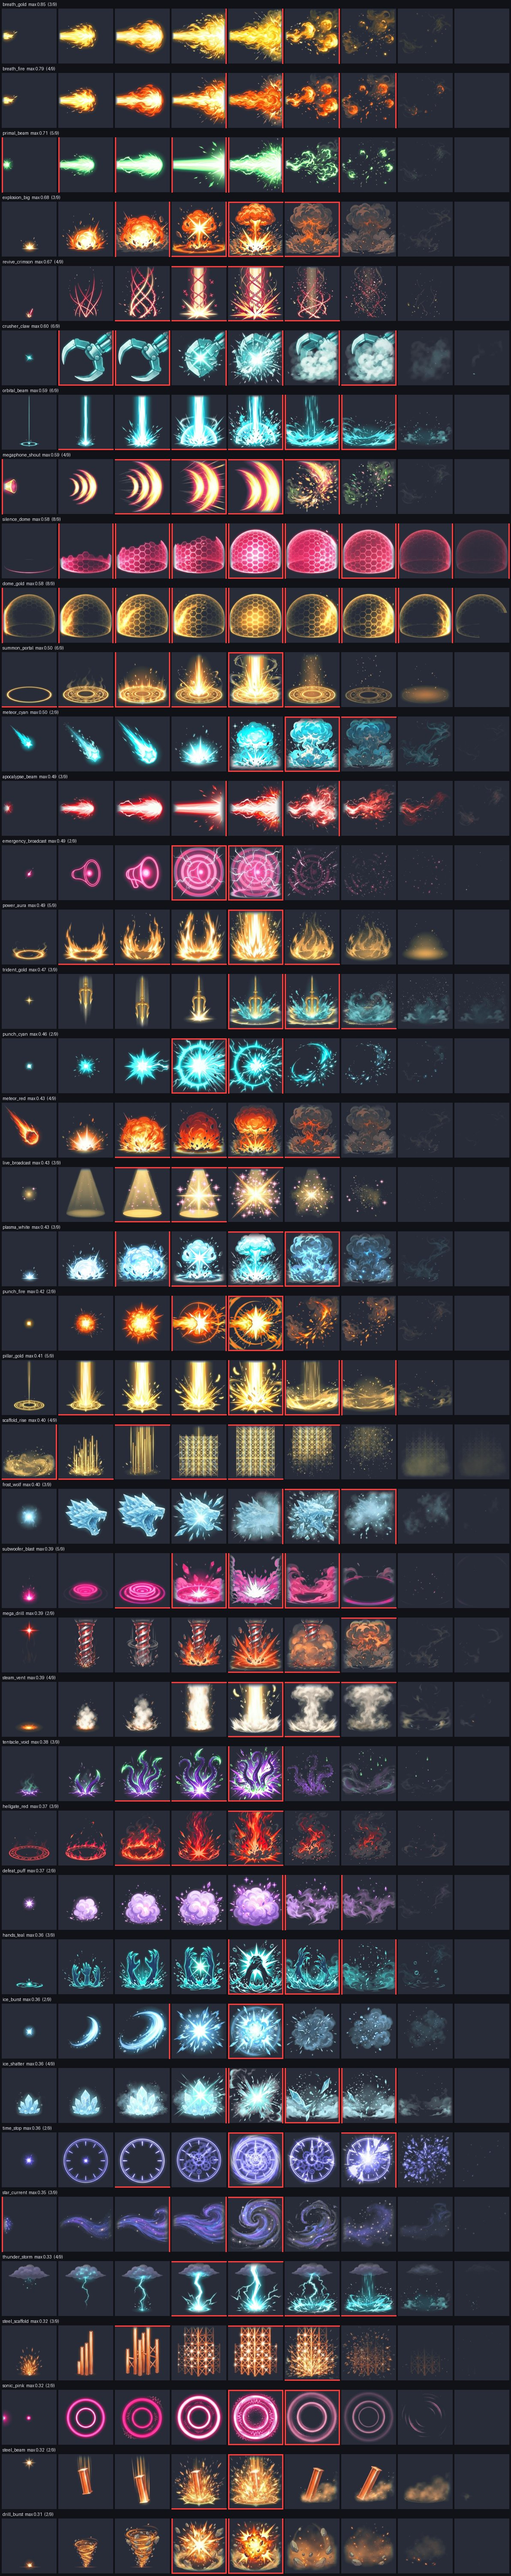
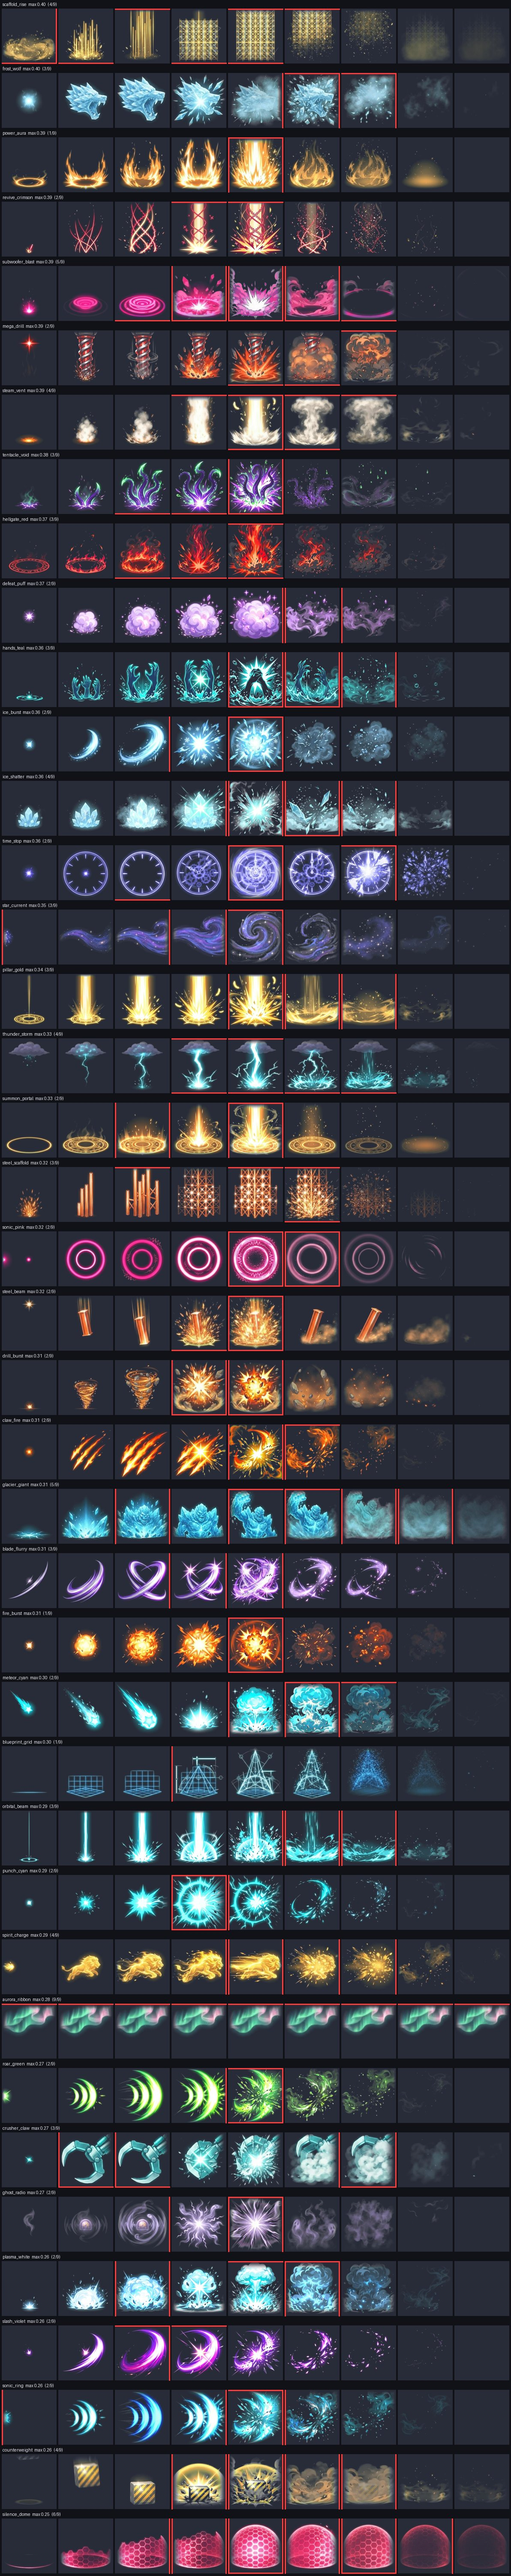
그림: 피드백 20 마무리 — 화산 등딱지 연기 · 바닥 기준 이펙트 11장 아래 변 옅게 · 잘림 검사
- 거대괴수 화산 등딱지 머리(head_c): Gemini 원본부터 맨 윗줄에서 잘린 연기 → 위 64줄을 부드럽게 옅게(연기가 흩어지듯), 그림 크기 그대로
- 바닥 기준 이펙트(anchorY 0.9) 11장: 땅선 아래 10%에서 잘리던 아래 변을 24px 옅게 → 눈에 띄게 잘린 시트 22 → 0장
- tools/tests/test_vfx_edges.py: 105장 × 9칸 잘림 검사(새 시트가 다시 잘리지 않게)

diff --git a/tools/tests/run_all.py b/tools/tests/run_all.py
@@ -17,7 +17,7 @@ from common import run_tests  # noqa: E402
 NAMES = ['test_menu_lab', 'test_battle', 'test_support', 'test_support_repeat', 'test_support_ui', 'test_flow', 'test_sound', 'test_stages', 'test_difficulty', 'test_growth', 'test_dispatch', 'test_bases', 'test_zone2', 'test_zone34', 'test_zone5', 'test_zone6', 'test_zone78', 'test_zone910', 'test_enemy_skills', 'test_elite', 'test_sets', 'test_kit',
          'test_diver', 'test_saint', 'test_frost', 'test_doll', 'test_newchars2', 'test_app_update', 'test_firstplay', 'test_setui', 'test_grade_ui', 'test_set_perks', 'test_qa_fixes', 'test_rig_page', 'test_vfx_variants', 'test_motion',
          'test_mobile_web', 'test_save_backup', 'test_analytics', 'test_content_schedule',
-         'test_shop', 'test_pets', 'test_offline_reward', 'test_tutorial', 'test_stage_unlock', 'test_support_expansion', 'test_support_basics', 'test_support_selection', 'test_support_menu', 'test_story_intro', 'test_map_drag', 'test_app_pause', 'test_currency_bar', 'test_lives']
+         'test_shop', 'test_pets', 'test_offline_reward', 'test_tutorial', 'test_stage_unlock', 'test_support_expansion', 'test_support_basics', 'test_support_selection', 'test_support_menu', 'test_story_intro', 'test_map_drag', 'test_app_pause', 'test_currency_bar', 'test_lives', 'test_vfx_edges']
 
 
 def main():

diff --git a/tools/tests/test_vfx_edges.py b/tools/tests/test_vfx_edges.py
@@ -1,0 +1,14 @@
+"""이펙트 시트 잘림 (11-05 피드백 20번): 105장 × 9칸의 네 변 안쪽 띠가 진하면(칸 경계에서 잘린 그림) 실패 — 새 시트를 넣을 때 다시 잘리지 않게.
+일부러 변에 붙인 그림·아래 변을 옅게 한 바닥 기준 그림은 check_vfx_edges.ALLOWED. 잘린 변은 tools/images/soften_vfx_edges.py로 옅게."""
+import os
+import sys
+
+sys.path.insert(0, os.path.join(os.path.dirname(os.path.abspath(__file__)), '..', 'images'))
+import check_vfx_edges as C  # noqa: E402
+
+
+def run(ctx):
+    names = sorted(f[:-4] for f in os.listdir(C.VFX_PNG) if f.endswith('.png'))
+    rows = [C.measure(n) for n in names]
+    bad = [f"{r['name']} {r['max']:.2f}" for r in rows if r['max'] > C.SERIOUS]
+    ctx.check(len(names) >= 100 and not bad, f'이펙트 시트 {len(names)}장: 칸 경계에서 눈에 띄게 잘린 것 없음 (가장자리 띠 진하기 ≤ {C.SERIOUS})', ', '.join(bad))

diff --git a/tools/images/check_vfx_edges.py b/tools/images/check_vfx_edges.py
@@ -26,6 +26,10 @@ ALLOWED = {
     'orbital_beam': {'top'}, 'pillar_gold': {'top'}, 'judgment_violet': {'top'},   # 하늘에서 내려오는 빛기둥
     'crusher_claw': {'top'},   # 화면 밖에서 뻗어 들어오는 집게 팔
 }
+# 바닥 기준 그림(anchorY 0.9 — 칸 아래 10%는 땅선 아래): 아래 변은 soften_vfx_edges.py로 24px 옅게 함 (11-05) → 아래 변은 빼고 잼
+for _n in ('revive_crimson', 'orbital_beam', 'summon_portal', 'meteor_cyan', 'power_aura', 'trident_gold', 'meteor_red',
+           'live_broadcast', 'plasma_white', 'pillar_gold', 'explosion_big'):
+    ALLOWED.setdefault(_n, set()).add('bottom')
 
 
 def edge_values(arr):
